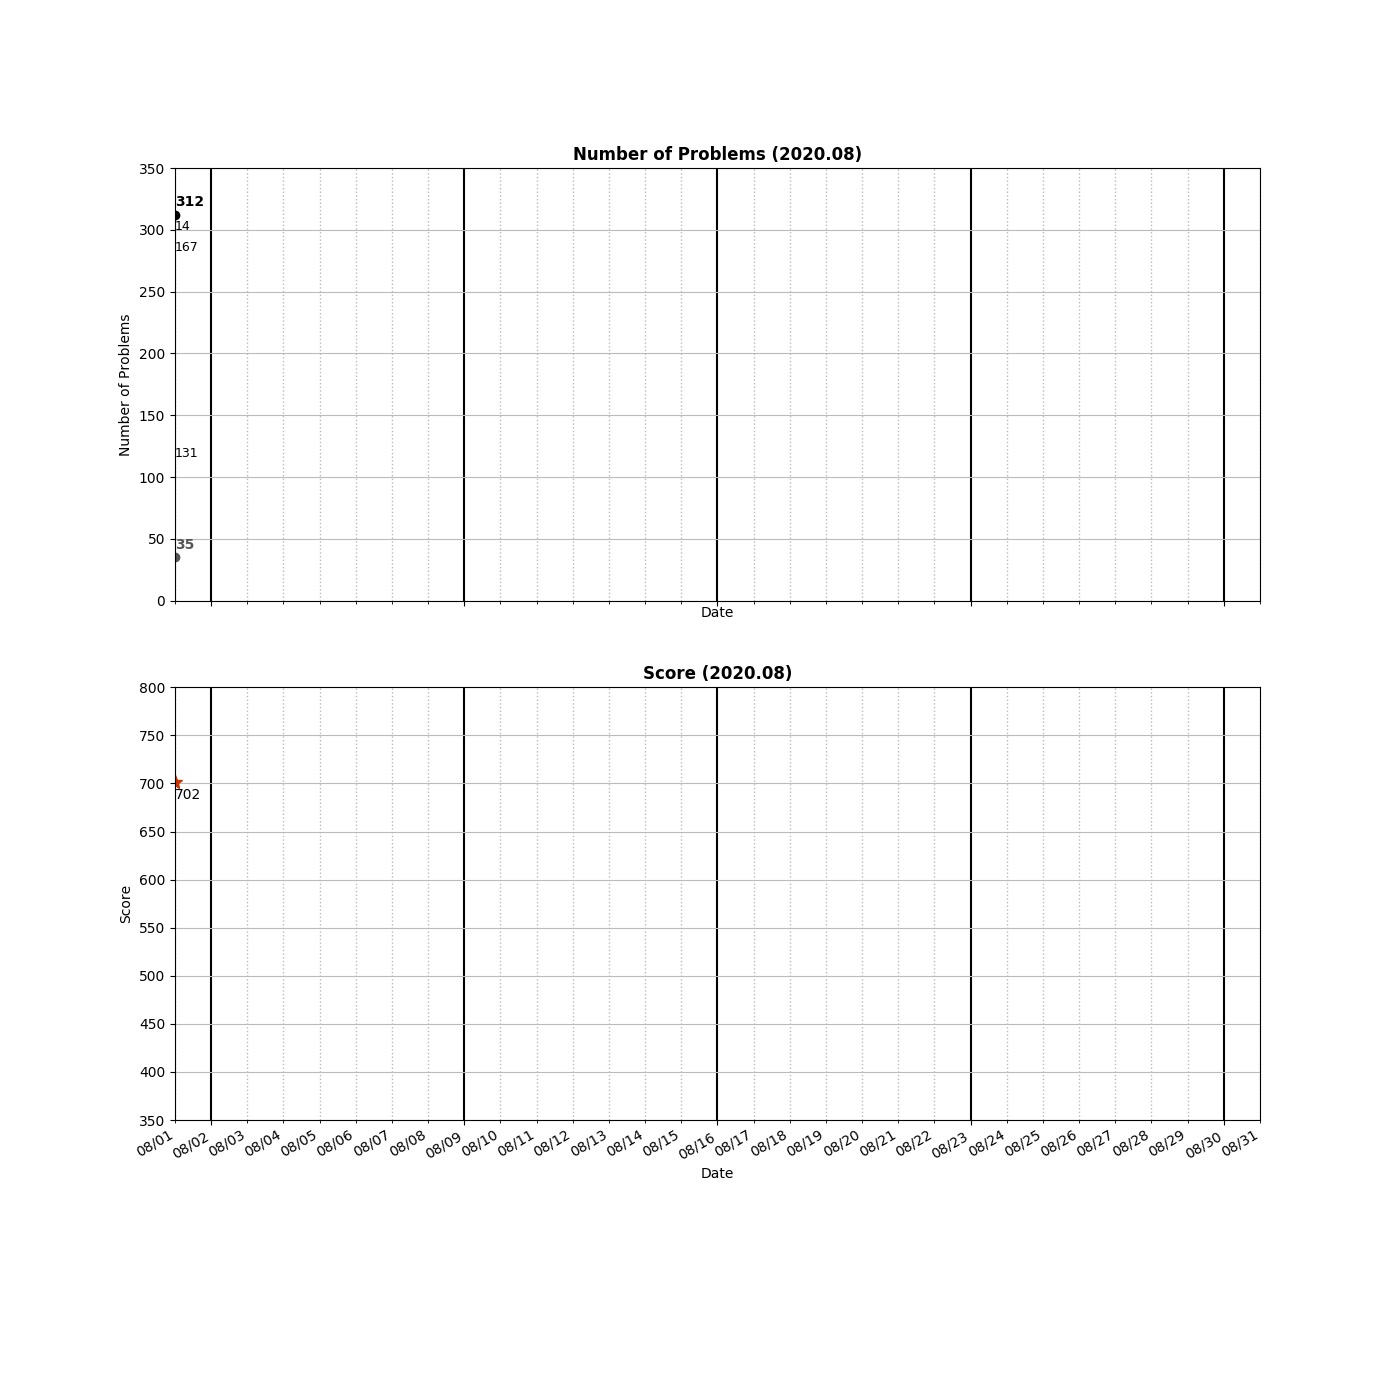
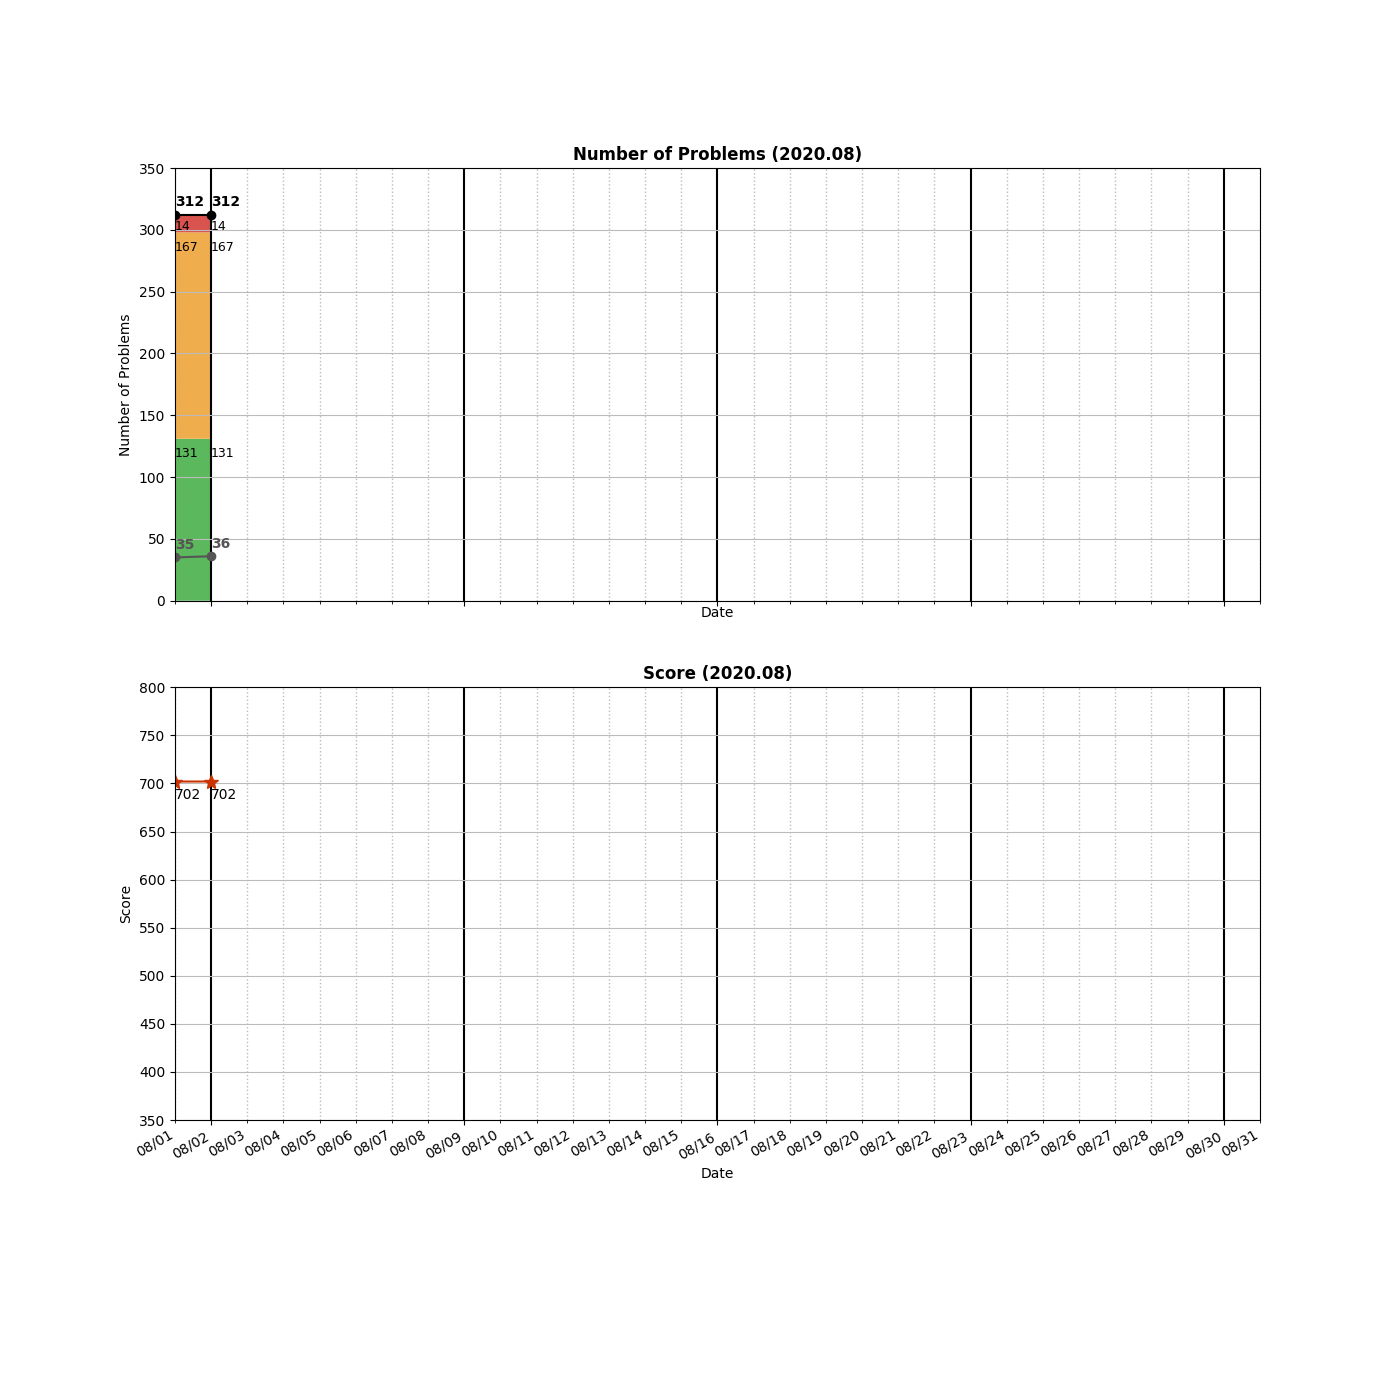
Reviewed _0108_ConvertSortedArrayToBinarySearchTree.py

Changed region(s): [[0.1229, 0.1536, 0.1536, 0.43]]

diff --git a/README.md b/README.md
@@ -973,10 +973,10 @@ Num of Python Practice:  309
  1427 Perform String Shifts
  1490 Clone N-ary Tree
 =====================================
-Solved / Total (Easy)  :  131 /  425
-Solved / Total (Medium):  167 /  785
-Solved / Total (Hard)  :   14 /  323
-Solved / Total (All)   :  312 / 1533
+Solved / Total (Easy)  :  131 /  426
+Solved / Total (Medium):  167 /  787
+Solved / Total (Hard)  :   14 /  324
+Solved / Total (All)   :  312 / 1537
 Total Score            :  702
 =====================================
 
